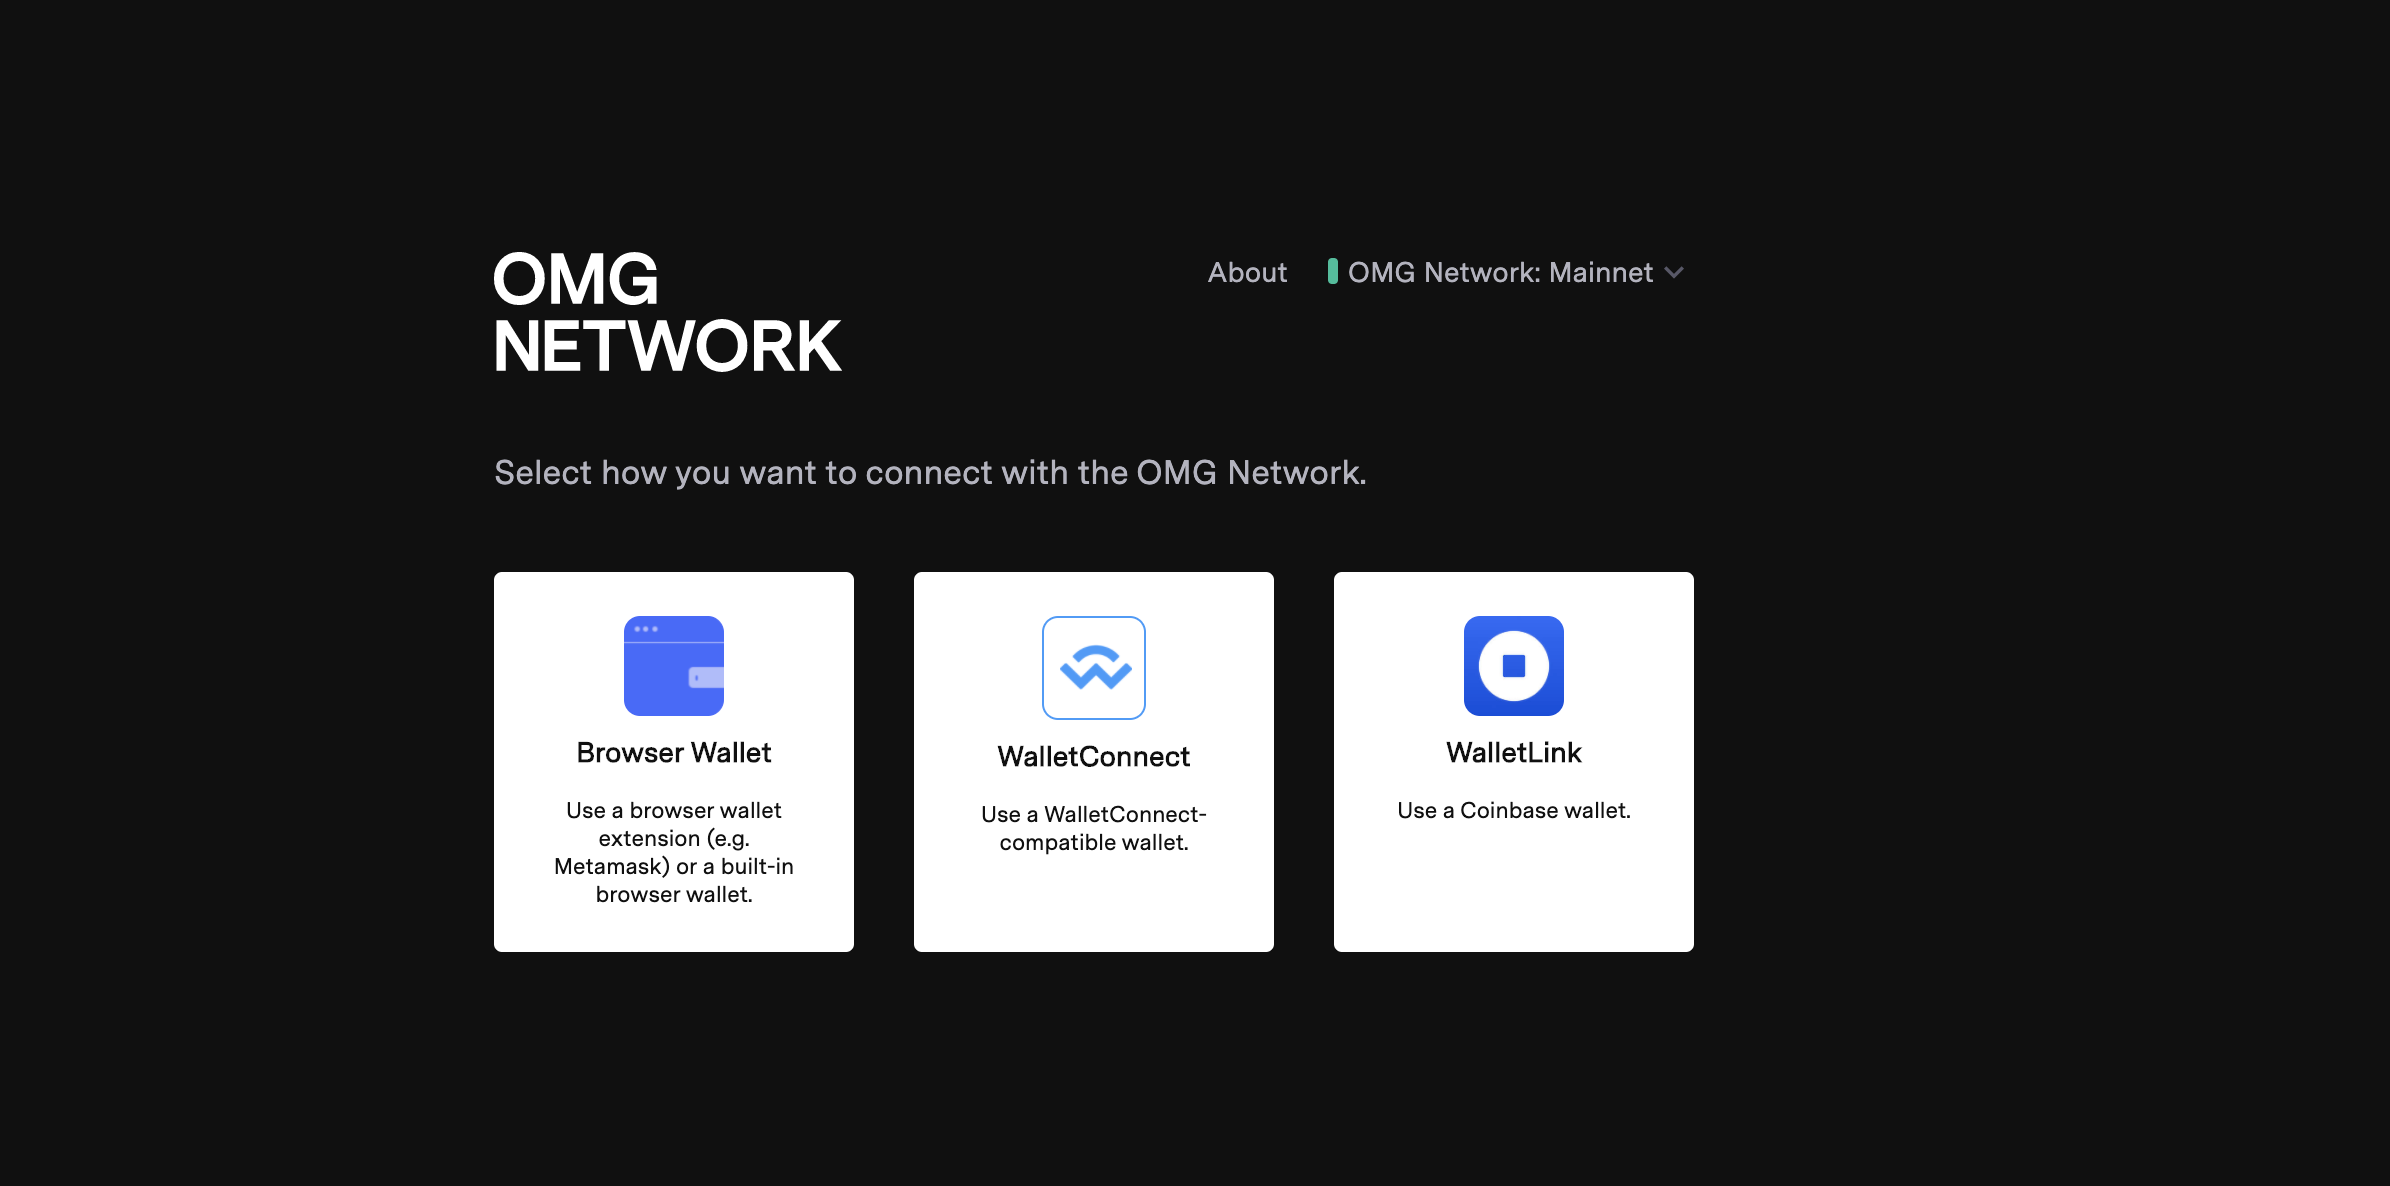
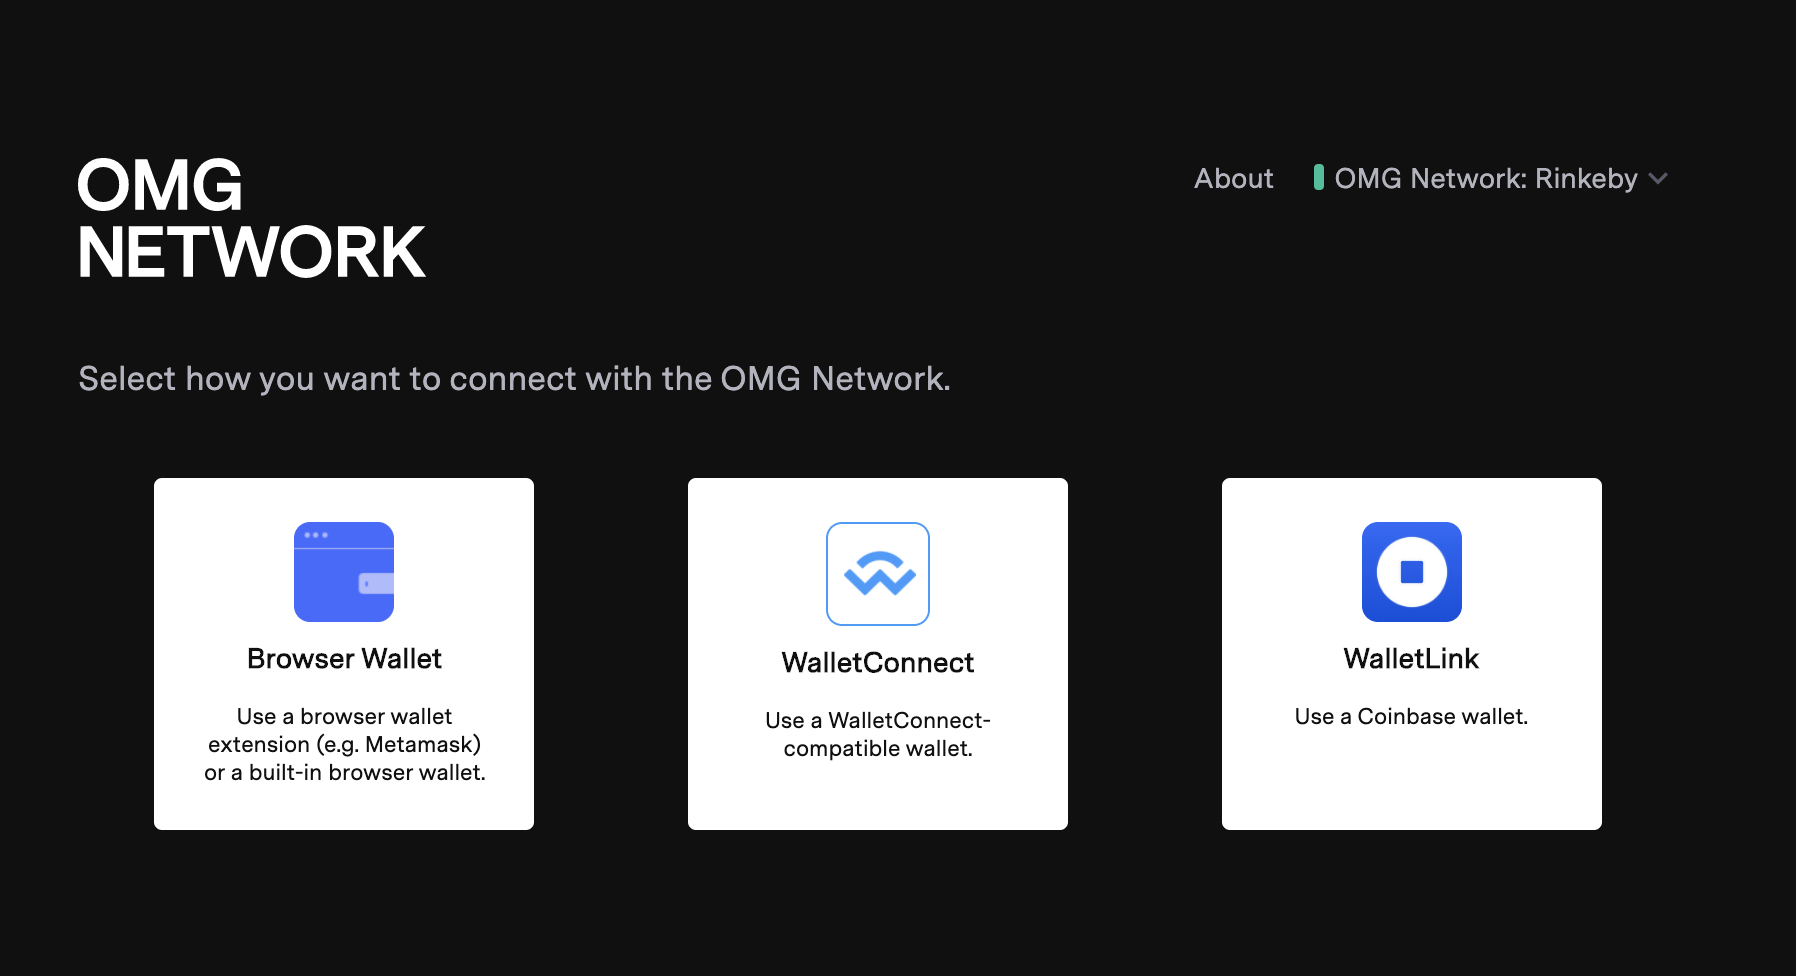
[Update]: webwallet quick start

diff --git a/docs/wallet/quick-start-webwallet.md b/docs/wallet/quick-start-webwallet.md
@@ -27,11 +27,11 @@ By the end of the guide, you will achieve the following:
 ## Notes
 * Keep your tokens safe. Please ensure you understand how to store and send tokens without compromising security, always double-check the recipient`s address, never send private keys to anyone unknown unless you want to lose your funds.
 * The quick start guide uses a hosted Web Wallet application. To run it yourself, check the installation instructions in the [Github repository](https://github.com/omgnetwork/web-wallet).
-* The current guide displays how to work with OMG Web Wallet on [Ropsten](https://webwallet.ropsten.v1.omg.network/) environment. However, the same steps can be applied to the [Mainnet](https://webwallet.mainnet.v1.omg.network/) version of the wallet.
+* The current guide displays how to work with OMG Web Wallet on [Rinkeby](https://webwallet.rinkeby.v1.omg.network/) environment. However, the same steps can be applied to the [Mainnet](https://webwallet.mainnet.v1.omg.network/) version of the wallet.
 
 ## Wallet Configuration
 The Web Wallet currently supports two environments:
-- *Ropsten Testnet* (testnet) - the latest Ethereum test network. The purpose of such an environment is to demonstrate all of the features without using or losing real funds and to find critical bugs before launching a software into production. This option is mostly used by developers.
+- *Rinkeby Testnet* (testnet) - the Ethereum test network. The purpose of such an environment is to demonstrate all of the features without using or losing real funds and to find critical bugs before launching a software into production. This option is mostly used by developers.
 - *Main Ethereum Network* (mainnet) - the latest Ethereum live network. It is recommended to use this option after you've already tried the testnet and are confident in working with a particular wallet. This option is mostly used by customers.
 
 You can configure the preferred environment in your Web3 wallet as follows:
@@ -55,7 +55,7 @@ There are several ways to fund your ETH wallet:
 - Exchange ETH for cash with somebody who has it
 - Ask your friends who work in the blockchain industry to send you some
 - Use Ethereum faucets/games to win free ETH
-- Use [Ropsten faucet](https://faucet.metamask.io) if you're planning to work with Ropsten
+- Use [Rinkeby faucet](https://faucet.rinkeby.io) if you're planning to work with Rinkeby
 
 After you fund your Web3 wallet, your ETH rootchain balance in the Web Wallet should be the same, as your balance in MetaMask or another Web3 wallet you are using:
 
@@ -75,7 +75,7 @@ Deposits on the OMG Network require to pass a [deposit finality period](/glossar
 
 ### 1.3 Make an ERC20 Deposit
 
-The process for depositing ERC20 into the OMG Network is very similar to an ETH deposit. For this example, we will use [`MRTY`](https://ropsten.etherscan.io/address/0x77b13a4090434be4bd931ff0f763048f86a1c732) token. To make a deposit, click the `DEPOSIT` button and choose the `ERC20` tab. Fill in the amount of tokens you want to deposit and a smart contract of a defined token as follows:
+The process for depositing ERC20 into the OMG Network is very similar to an ETH deposit. For this example, we will use [TUSDT](https://rinkeby.etherscan.io/token/0xd92e713d051c37ebb2561803a3b5fbabc4962431) token. To make a deposit, click the `DEPOSIT` button and choose the `ERC20` tab. Fill in the amount of tokens you want to deposit and a smart contract of a defined token as follows:
 
 ![](/img/webwallet/deposit-04.png)
 
@@ -101,7 +101,7 @@ Once the transaction is confirmed, you can view its details in the block explore
 
 ### 3.1 Submit an Exit
 
-You've successfully deposited and made a transfer to the OMG Network. If you want to move your funds from the OMG Network back to the Ethereum network, you should start a standard exit. 
+You've successfully deposited and made a transfer to the OMG Network. If you want to move your funds from the OMG Network back to the Ethereum network, you should start a standard exit.
 
 To start an exit, press the `EXIT` button and choose one of the UTXO you want to exit as follows:
 
@@ -119,7 +119,7 @@ Next, press `SUBMIT EXIT` and confirm the transaction in the opened popup as fol
 
 ### 3.2 Process an Exit
 
-To prevent any malicious activity on the network, each exit goes through the [`Challenge Period`](/network/challenge-period). This allows other users to challenge your exit on validity and trust. You can find also find a date when you can process your exit below the transaction id. After the challenge period has passed, you can process your exit to send your funds back to the Ethereum network. 
+To prevent any malicious activity on the network, each exit goes through the [Challenge Period](/network/challenge-period). This allows other users to challenge your exit on validity and trust. You can find also find a date when you can process your exit below the transaction id. After the challenge period has passed, you can process your exit to send your funds back to the Ethereum network. 
 
 To start an exit, press the `Process Exit` button near exit id as follows:
 
